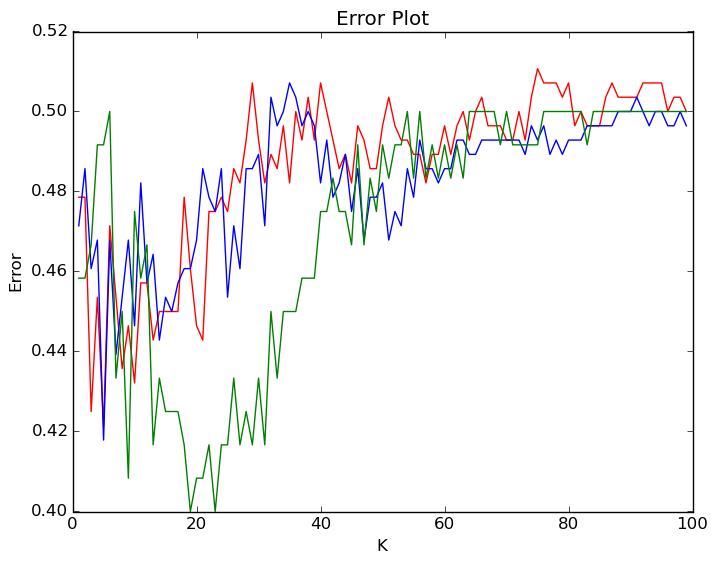
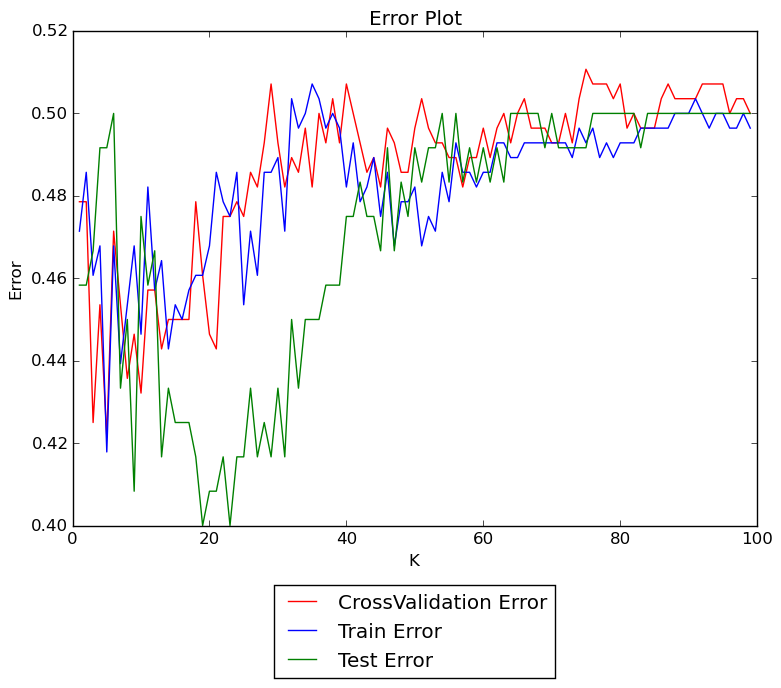
Changes

Changed region(s): [[0.0, 0.0, 0.9819, 0.9947]]

diff --git a/Assignment3/knnclassifier.py b/Assignment3/knnclassifier.py
@@ -15,6 +15,10 @@ def plotErrorForK(ks, errors, train_errors, test_errors):
     ax.plot(ks, train_errors, label='Train Error', color='b')
     ax.plot(ks, test_errors, label='Test Error', color='g')
     imgFile = os.path.join(os.getcwd(), "Error plot")+'.png'
+    art = []
+    lgd = plt.legend(loc=9, bbox_to_anchor=(0.5, -0.1))
+    art.append(lgd)
+    plt.tight_layout()
     print "Error plot logged to "+imgFile
     plt.savefig(imgFile,\
                  bbox_inches="tight")
@@ -27,7 +31,6 @@ class KNNClassifier(object):
         self.train_result = []
         self.nFold = cross_validation_fold
         self.possible_k_values = possible_k_values
-        self.k = -1
 
     def cosine_distance(self,x,y):
         denom = numpy.sqrt(numpy.dot(x,x)*numpy.dot(y,y))
@@ -43,9 +46,7 @@ class KNNClassifier(object):
                 key = lambda key : neighbor_distances[key])
             self.train_sample_pair_wise_distance_matrix[i] = neighbor_distances
         
-    def findKNearestNeigbors(self, x, k = None):
-        if k == None:
-            k = self.k
+    def findKNearestNeigbors(self, x, k):
         n_samples, n_features = self.train_data.shape
         neighbor_distances_dict = dict()
         for i in range(n_samples):
@@ -95,9 +96,9 @@ class KNNClassifier(object):
             train_error /= n_samples
             train_error_for_each_k.append(train_error)
 
-        self.k = min(cross_validation_error_for_each_k.keys(),\
-            key = lambda key: cross_validation_error_for_each_k[key])
-        print 'Minimum error with k: ', self.k
+        # self.k = min(cross_validation_error_for_each_k.keys(),\
+        #     key = lambda key: cross_validation_error_for_each_k[key])
+        # print 'Minimum error with k: ', self.k
 
         return cross_validation_error_for_each_k.values(), train_error_for_each_k
 
@@ -109,31 +110,39 @@ class KNNClassifier(object):
             if label not in class_labels:
                 class_labels[label] = 0
             class_labels[label] += 1
-        return max(class_labels.keys(), key = lambda key: class_labels[key])
+        return max(class_labels.keys(), key=lambda key: class_labels[key])
 
-    def predict(self, x, k=None):
-        if k == None:
-            k = self.k
+    def predict(self, x, k):
         knn = self.findKNearestNeigbors(x, k)
         return self.getMajorityClassLabelsForKNN(knn, self.train_data, self.train_result)
 
-    def predictAndScore(self, data, result, k=None):
+    def score(self, labels, result, k):
         error = 0.0
-        for i in range(len(data)):
-            label = self.predict(data[i], k)
-            if label != result[i]:
+        for i in range(len(labels)):
+            if labels[i] != result[i]:
                 error += 1.0
-        error /= len(data)
+        error /= len(labels)
         return error
 
     def fitPredictAndScore(self, train_data, train_result, test_data, test_result):
         self.train_data = train_data
+        n_samples, n_features = self.train_data.shape
+
         self.train_result = train_result
         self.calculatePairWiseDistanceForTrainSamples()
+
         cross_validation_error_for_each_k, train_error_for_each_k = self.doNFoldCrossValidationAndMeasureK()
         test_error_for_each_k = []
+        knn_for_test_data = {}
+
+        for test_idx in range(len(test_data)):
+            knn_for_test_data[test_idx] = self.findKNearestNeigbors(test_data[test_idx], k=n_samples)
+
         for k in self.possible_k_values:
-            test_error = self.predictAndScore(test_data, test_result, k)
+            labels = [self.getMajorityClassLabelsForKNN(knn_for_test_data[test_idx][:k],\
+                                                        self.train_data, self.train_result)\
+                      for test_idx in range(len(test_data))]
+            test_error = self.score(labels, test_result)
             test_error_for_each_k.append(test_error)
         plotErrorForK(self.possible_k_values, cross_validation_error_for_each_k,\
                       train_error_for_each_k, test_error_for_each_k)
